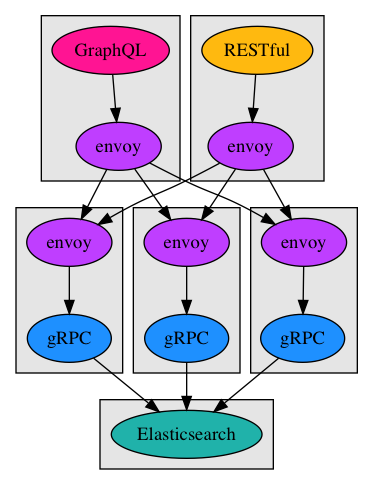
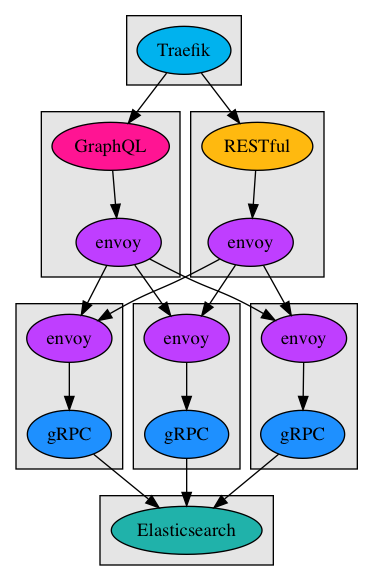
fix: adds `traefik` edge proxy

diff --git a/README.md b/README.md
@@ -61,11 +61,21 @@ $ go get -u github.com/grpc-ecosystem/grpc-gateway/protoc-gen-swagger
         sleep 5s && \
         docker-compose up --scale todo-grpc=3
     ```
-3. Explore the RESTful JSON api running at [localhost:11000](http://localhost:11000)
+3. Explore the RESTful JSON api running at [localhost:8080](http://localhost:8080)
    ```shell
-    $ curl localhost:11000/todos
+    # create a todo
+    $ curl -X POST \
+        -H 'Content-Type: application/json' \
+        -d '{"title":"task one","description":"the first task"}' \
+        localhost:8080/todos
+    
+    # list all todos
+    $ curl localhost:8080/todos
+
+    # mark todo as completed
+    $ curl -X POST localhost:8080/todos/{id}/completion
    ```
-4. Explore the GraphQL api via the GraphQL Playground running at [localhost:12000](http://localhost:12000)
+4. Explore the GraphQL api via the GraphQL Playground running at [localhost:8080](http://localhost:8080)
 
 ## Code Generation
 
@@ -101,9 +111,10 @@ $ retool do goreleaser --snapshot --rm-dist --skip-publish
 ## Todo
 - [ ] add tests
 - [x] add better error propagation
+- [x] add edge proxy
 - [ ] add tls
 - [ ] prometheus & grafana
-- [ ] add second service & edge proxy
+- [ ] add second service
 
 ## License
 Copyright (c) 2018 Chris Ludden
